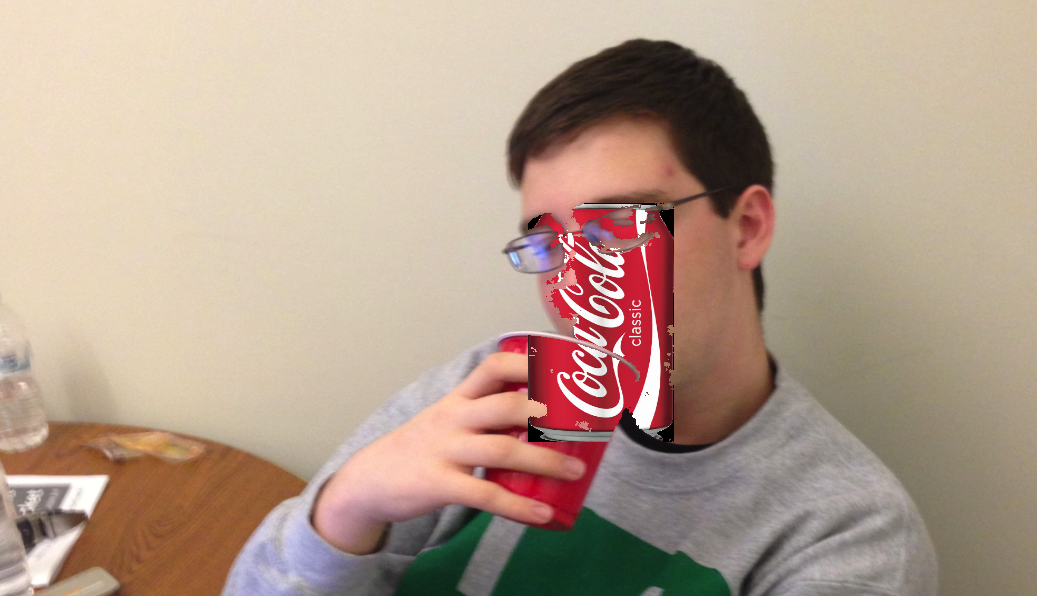
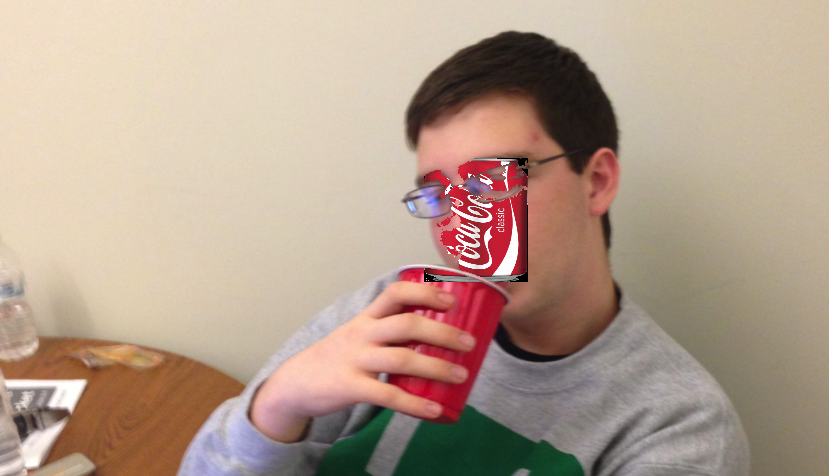
Added downsampling

Changed region(s): [[0.4825, 0.3235, 0.6634, 0.7647]]

diff --git a/drunkreplace.py b/drunkreplace.py
@@ -21,21 +21,9 @@ orig_img = cv2.imread(sys.argv[1])
 height, width, depth = orig_img.shape
 
 # Downsample image
-
-# if height > 1000:
-# 	rat = 1000/height
-# 	height = rat * height
-# 	width = rat * width
-# elif width > 1000:
-# 	rat = 1000/width
-# 	height = rat * height
-# 	width = rat * width
-
-print width, height
-orig_img = cv2.resize(orig_img, (width , height))
-
-height, width, depth = orig_img.shape
-
+while height > 1000 or width > 1000:
+	orig_img = cv2.resize(orig_img, (int(width*.8) , int(height*.8)))
+	height, width, depth = orig_img.shape
 
 # Preprocess, convert to HSV
 img = cv2.cvtColor(orig_img, cv2.COLOR_BGR2HSV)
